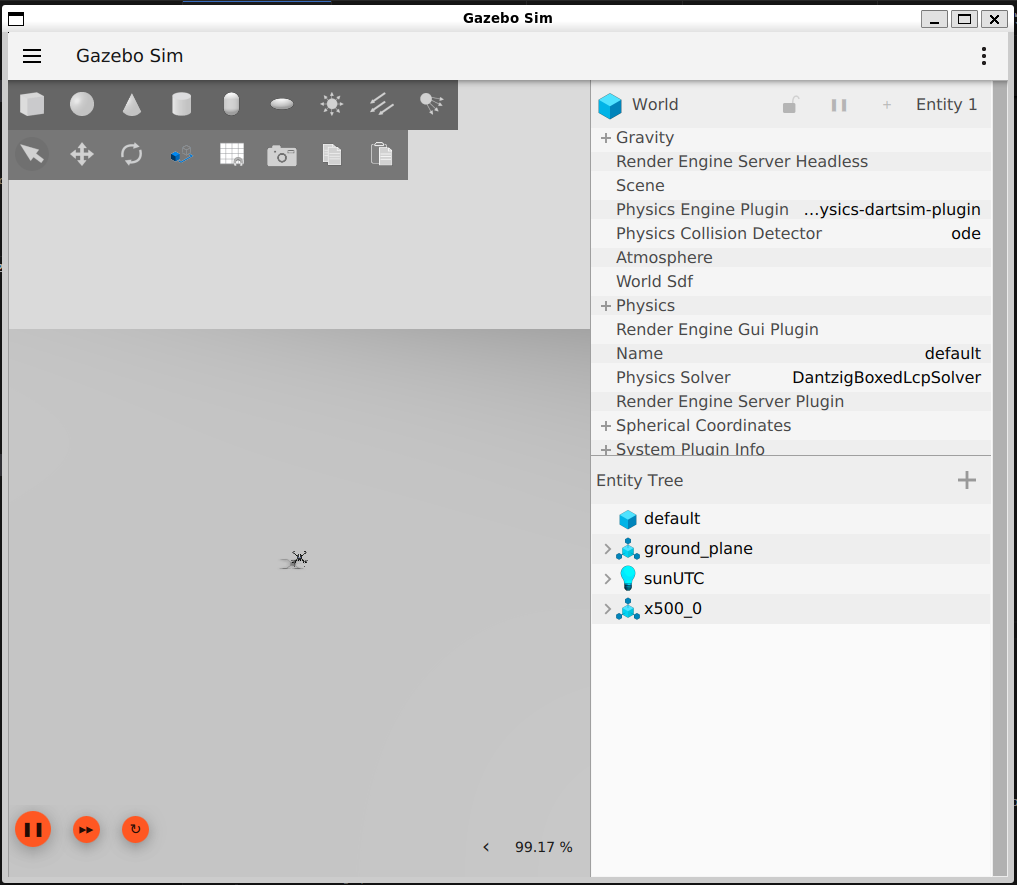
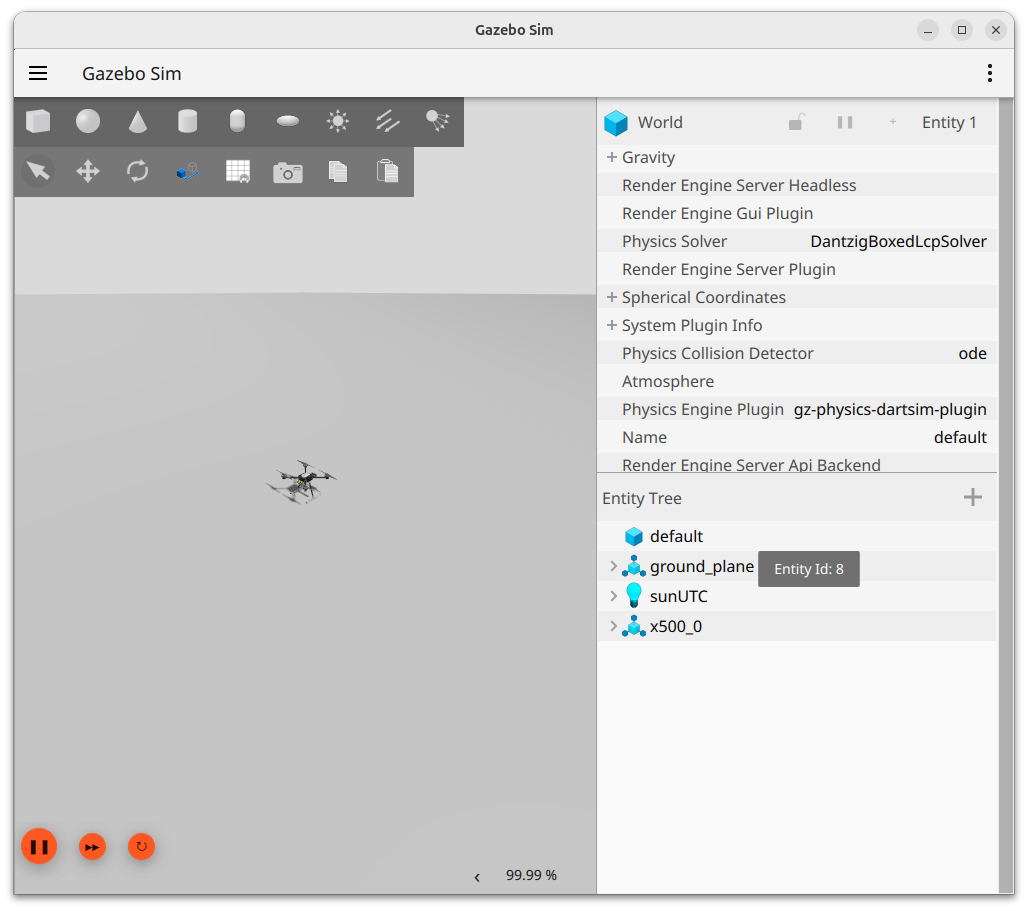
docs: READMEs refactor continuation

Changed region(s): [[0.0, 0.0, 1.0, 1.0], [0.2743, 0.5186, 0.3353, 0.5492], [0.2743, 0.6102, 0.3048, 0.6407]]

diff --git a/docs/setup.md b/docs/setup.md
@@ -2,15 +2,13 @@
 
 This page will guide you through the installation of the requirements for running the workshop exercises and it will explain how ROS 2, Gazebo and PX4 will interact.
 
-The images contains all the required dependencies for the workshop, in particular:
+The three main components are:
 
 - [GZ HARMONIC](https://gazebosim.org/docs/harmonic/getstarted/)
 - [ROS 2 Jazzy](https://docs.ros.org/en/jazzy/index.html)
-- [PX4](https://github.com/PX4/PX4-Autopilot) v1.17.0 simulator
+- [PX4](https://github.com/PX4/PX4-Autopilot) v1.18.0 simulator
 
-## Prerequisites
-
-All the instructions and all the provided scripts have been tested on Ubuntu 24.04.
+In addition to them, two extra components are required for visualization and remote control:
 
 - **QGroundControl**. [GQC](https://qgroundcontrol.com/) provides intuitive operator control of PX4 drones, it lets you configure PX4, calibrate the drone sensors and plan mission.
 QGC is already installed in the Docker images.
@@ -18,6 +16,9 @@ However, it requires GUI to enabled for the container.
 If this is not possible (currently for MAC) then QGC will have to be installed on the host system.
 - **Foxglove**. [Foxglove](https://foxglove.dev/download) will make visualizing the drone state and perceived environment a more user friendly way.
 
+## Prerequisites
+
+All the instructions and all the provided scripts have been tested on Ubuntu 24.04.
 
 ### PX4 SITL
 
@@ -72,10 +73,6 @@ Pick `ros-jazzy-desktop`.
     colcon build --symlink-install
     ```
 
-
-
-### TO-DO: update everything below this point
-
 ## How to start the simulation
 
 ### Starting the PX4-GZ simulation
@@ -85,135 +82,23 @@ This means that PX4 can control any GZ model as long as the model uses the requi
 
 For this workshop we will use the x500 quadrotor model.
 
-![X500](./assets/X500.png)
-
-The PX4 Gazebo worlds and models are available in the `/home/ubuntu/PX4-gazebo-models` container directory.
-From there you can start a GZ simulation with a PX4 compatible world:
+Change folder to where PX4 was cloned and run
 
 ```sh
-python3 /home/ubuntu/PX4-gazebo-models/simulation-gazebo --model_store /home/ubuntu/PX4-gazebo-models/ --world default
+make px4_sitl gz_x500
 ```
 
-- If you want to run the gz server in headless mode, add the option `--headless`.
-- If you want to change the world, then change the argument of `--world`.
-
-Note that `--headless` is mandatory when running without GUI.
-
-The expected output when GUI is enabled is
-
-```sh
-ubuntu@fe14532c7704:~$ python3 /home/ubuntu/PX4-gazebo-models/simulation-gazebo --model_store /home/ubuntu/PX4-gazebo-models/
-Found: 219 files in /home/ubuntu/PX4-gazebo-models/
-Models directory not empty. Overwrite not set. Not downloading models.
-> Launching gazebo simulation...
-QStandardPaths: XDG_RUNTIME_DIR not set, defaulting to '/tmp/runtime-ubuntu'
-[Err] [SystemLoader.cc:92] Failed to load system plugin [libOpticalFlowSystem.so] : Could not find shared library.
-[Err] [SystemLoader.cc:92] Failed to load system plugin [libGstCameraSystem.so] : Could not find shared library.
-```
-
-- Please ignore the error messages about the plugins not found.
-- The gazebo client window will open on the empty world.
-- No PX4 model will appear.
-This is normal as PX4 instance and model will be spawned in a different step.
-
-![empty GZ world](./assets/empty_gz_world.png)
-
-Once the GZ server is running, you can spawn the `x500` model and attach a PX4 instance to it with
-
-```sh
-PX4_GZ_STANDALONE=1 PX4_SYS_AUTOSTART=4001 PX4_PARAM_UXRCE_DDS_SYNCT=0 /home/ubuntu/px4_sitl/bin/px4 -w /home/ubuntu/px4_sitl/romfs
-```
-
-The expected output is
-
-```sh
-$ PX4_GZ_STANDALONE=1 PX4_SYS_AUTOSTART=4001 PX4_PARAM_UXRCE_DDS_SYNCT=0 /home/ubuntu/px4_sitl/bin/px4 -w /home/ubuntu/px4_sitl/romfs
-INFO  [px4] assuming working directory is rootfs, no symlinks needed.
-
-______  __   __    ___ 
-| ___ \ \ \ / /   /   |
-| |_/ /  \ V /   / /| |
-|  __/   /   \  / /_| |
-| |     / /^\ \ \___  |
-\_|     \/   \/     |_/
-
-px4 starting.
-
-INFO  [px4] startup script: /bin/sh etc/init.d-posix/rcS 0
-env SYS_AUTOSTART: 4001
-INFO  [param] selected parameter default file parameters.bson
-INFO  [param] selected parameter backup file parameters_backup.bson
-  SYS_AUTOCONFIG: curr: 0 -> new: 1
-  SYS_AUTOSTART: curr: 0 -> new: 4001
-  CAL_ACC0_ID: curr: 0 -> new: 1310988
-  CAL_GYRO0_ID: curr: 0 -> new: 1310988
-  CAL_ACC1_ID: curr: 0 -> new: 1310996
-  CAL_GYRO1_ID: curr: 0 -> new: 1310996
-  CAL_ACC2_ID: curr: 0 -> new: 1311004
-  CAL_GYRO2_ID: curr: 0 -> new: 1311004
-  CAL_MAG0_ID: curr: 0 -> new: 197388
-  CAL_MAG0_PRIO: curr: -1 -> new: 50
-  CAL_MAG1_ID: curr: 0 -> new: 197644
-  CAL_MAG1_PRIO: curr: -1 -> new: 50
-  SENS_BOARD_X_OFF: curr: 0.0000 -> new: 0.0000
-  SENS_DPRES_OFF: curr: 0.0000 -> new: 0.0010
-  UXRCE_DDS_SYNCT: curr: 1 -> new: 0
-INFO  [dataman] data manager file './dataman' size is 1208528 bytes
-INFO  [init] Gazebo simulator
-INFO  [init] Standalone PX4 launch, waiting for Gazebo
-INFO  [init] Gazebo world is ready
-INFO  [init] Spawning model
-INFO  [gz_bridge] world: default, model: x500_0
-INFO  [lockstep_scheduler] setting initial absolute time to 2324000 us
-INFO  [commander] LED: open /dev/led0 failed (22)
-WARN  [health_and_arming_checks] Preflight Fail: ekf2 missing data
-WARN  [health_and_arming_checks] Preflight Fail: No connection to the ground control station
-INFO  [uxrce_dds_client] init UDP agent IP:127.0.0.1, port:8888
-INFO  [tone_alarm] home set
-INFO  [mavlink] mode: Normal, data rate: 4000000 B/s on udp port 18570 remote port 14550
-INFO  [mavlink] mode: Onboard, data rate: 4000000 B/s on udp port 14580 remote port 14540
-INFO  [mavlink] mode: Onboard, data rate: 4000 B/s on udp port 14280 remote port 14030
-INFO  [mavlink] mode: Gimbal, data rate: 400000 B/s on udp port 13030 remote port 13280
-INFO  [logger] logger started (mode=all)
-INFO  [logger] Start file log (type: full)
-INFO  [logger] [logger] ./log/2025-08-09/11_56_59.ulg
-INFO  [logger] Opened full log file: ./log/2025-08-09/11_56_59.ulg
-INFO  [mavlink] MAVLink only on localhost (set param MAV_{i}_BROADCAST = 1 to enable network)
-INFO  [mavlink] MAVLink only on localhost (set param MAV_{i}_BROADCAST = 1 to enable network)
-INFO  [px4] Startup script returned successfully
-pxh> WARN  [health_and_arming_checks] Preflight Fail: No connection to the ground control station
-WARN  [health_and_arming_checks] Preflight Fail: No connection to the ground control station
-```
-
-Let's analyze this command:
-
-- `PX4_GZ_STANDALONE=1` tells the PX4 startup script that it will need to connect to an already running GZ server.
-- `PX4_SYS_AUTOSTART=4001` tells the PX4 startup script that it has to use the `4001` _airframe_.
-This airframe is defined in the [PX4 simulated airframes](https://github.com/PX4/PX4-Autopilot/tree/v1.16.0/ROMFS/px4fmu_common/init.d-posix/airframes) folder and is bound to the `x500` model.
-Because not explicit model name was given, PX4 will insert the model in the GZ world.
-An explicit mentioning of the model name would have made PX4 to simply connect to an already spawned model.
-- `PX4_PARAM_UXRCE_DDS_SYNCT=0` disabled the [time synchronization](https://docs.px4.io/v1.16/en/ros2/user_guide#ros-gazebo-and-px4-time-synchronization) feature between ROS 2 and PX4.
-Synchronization is not needed as Gazebo will control the clock for both PX4 and ROS 2.
-
-The complete documentation for running PX4 simulation in Gazebo is part of [PX4 documentation](https://docs.px4.io/main/en/sim_gazebo_gz/).
+The Gazebo GUI window will open
 
 ![GZ world with x500 spawned](./assets/gz_world_with_x500.png)
 
 Before taking off you just need to connect QGC to your simulated drone.
-If you started you container with the GUI, then you can simply run
+
+Simply start QGC, open a terminal into the folder where you downloaded it and run
 
 ```sh
-/home/ubuntu/QGroundControl/qgroundcontrol
+./QGroundControl-x86_64.AppImage
 ```
-
-If instead you don't have GUI in your container, then you can still run QGC on the host and attach it to the simulated PX4 instance.
-
-To do so, first [install QGC](https://docs.qgroundcontrol.com/Stable_V5.0/en/qgc-user-guide/getting_started/download_and_install.html), then start it and create a custom UDP connection link by setting the server ip to `127.0.0.1` and the port to `18570`.
-
-![QGC lin](./assets/qgc_custom_udp_connection.png)
-
-The no-gui container automatically exposed the udp port `18570` to the host.
-The GUI-enable container does not expose the port so this method won't for it.
 
 On the PX4 terminal you will see the message
 
@@ -223,6 +108,8 @@ INFO  [commander] Ready for takeoff!
 ```
 
 This is all you need to do to start the GZ + PX4 simulation, you can now takeoff!
+
+## TO-DO: update everything below this point
 
 ## Next step (optional) - Link the simulation to ROS 2
 
@@ -269,30 +156,7 @@ The messages in the topics with namespace `/fmu/in` are sent from ROS 2 to PX4 w
 For example, you can check the PX4 vehicle status with
 
 ```sh
-ros2 topic echo /fmu/out/vehicle_status_v1
-```
-
-You can also try the `sensor_combined_listener` node from the [px4_ros_com](https://github.com/PX4/px4_ros_com) package and get a user friendly visualization of PX4 accelerometer and gyroscope data:
-
-```sh
-ros2 run px4_ros_com sensor_combined_listener --ros-args -p use_sim_time:=true
-```
-
-It will output something like:
-
-```sh
-RECEIVED SENSOR COMBINED DATA
-=============================
-ts: 93380000
-gyro_rad[0]: -0.000287732
-gyro_rad[1]: -0.000181083
-gyro_rad[2]: -0.00105683
-gyro_integral_dt: 4000
-accelerometer_timestamp_relative: 0
-accelerometer_m_s2[0]: -0.00764366
-accelerometer_m_s2[1]: 6.15756e-05
-accelerometer_m_s2[2]: -9.79929
-accelerometer_integral_dt: 4000
+ros2 topic echo /fmu/out/vehicle_status_v4
 ```
 
 ### Foxglove visualization

diff --git a/README.md b/README.md
@@ -42,7 +42,7 @@ For more detailed instructions and guidance, please refer to the dedicated **REA
 
 ### Environment Setup
 
-For detailed environment and Docker setup instructions, see the [docs/setup.md](docs/setup.md) guide.
+For detailed environment setup instructions, see the [docs/setup.md](docs/setup.md) guide.
 Please complete this step before you proceed.
 
 ### Control Pipelines
